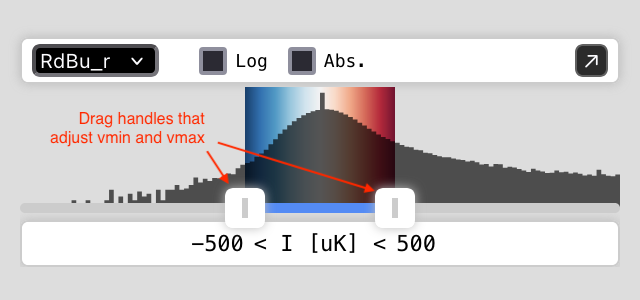
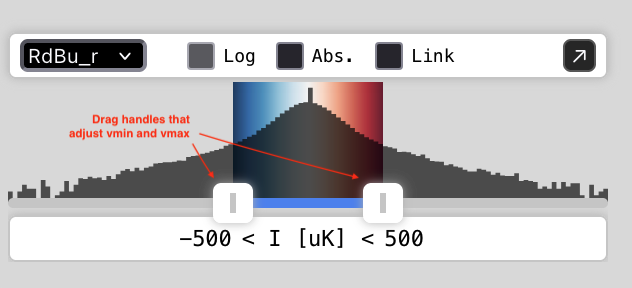
Update docs to include 'link' feature

Changed region(s): [[0.0, 0.0938, 0.9921, 0.9062], [0.4209, 0.5312, 0.481, 0.5625]]

diff --git a/docs/usage.md b/docs/usage.md
@@ -211,13 +211,15 @@ Additionally, the tile server responds to the following boolean values:
 :align: center
 ```
 
-2. Edit the desired parameter(s), then submit.
+2. Edit the desired parameter(s), then click `Update Map`. Closing the dialog without submitting discards any edits.
 
 ```{image} images/histo_dialog.png
 :alt: Dialog box to edit parameters
 :width: 400px
 :align: center
 ```
+
+The `Update Map` button is disabled while the parameters are invalid, such as when `vmin` or `vmax` is empty, or when `Log Scale` is checked and `vmin` or `vmax` is not positive. Hover over the button to see why it's disabled.
 
 #### Changing vmin and vmax
 
@@ -274,6 +276,22 @@ Alternatively, use the dialog box shown above to precisely set `vmin` and `vmax`
 #### Changing `cmap`
 
 Users can use the dropdown selector to choose between one of the built-in options. If a different `cmap` value compatible with `matplotlib` is desired, use the dialog box and enter its value in the color map field.
+
+### Linking Parameters Across Baselayers
+
+Baselayers that share the same units and quantity (e.g. `uK` and `T`) can be linked so that they all use the same `cmap`, `vmin`, `vmax`, `log`, and `abs` parameters. This makes it easier to compare baselayers of the same kind of data without adjusting each one.
+
+To link baselayers, check `Link` in the histogram controls or in the dialog box. When linked:
+
+- All loaded baselayers with the same units and quantity immediately take on the current baselayer's parameters.
+- Any later changes to the parameters, made with the histogram controls, dialog box, or [keyboard shortcuts](keyboard-shortcuts.md), are applied to all linked baselayers.
+- Baselayers of the same units and quantity that are opened later also use the linked parameters instead of their defaults.
+
+Baselayers with different units or quantities are not affected, and each combination of units and quantity can be linked independently.
+
+To unlink baselayers, uncheck `Link`. Each baselayer keeps its current parameters, but later changes only apply to the current baselayer.
+
+Links last until the page is reloaded.
 
 ## Apertures
 
